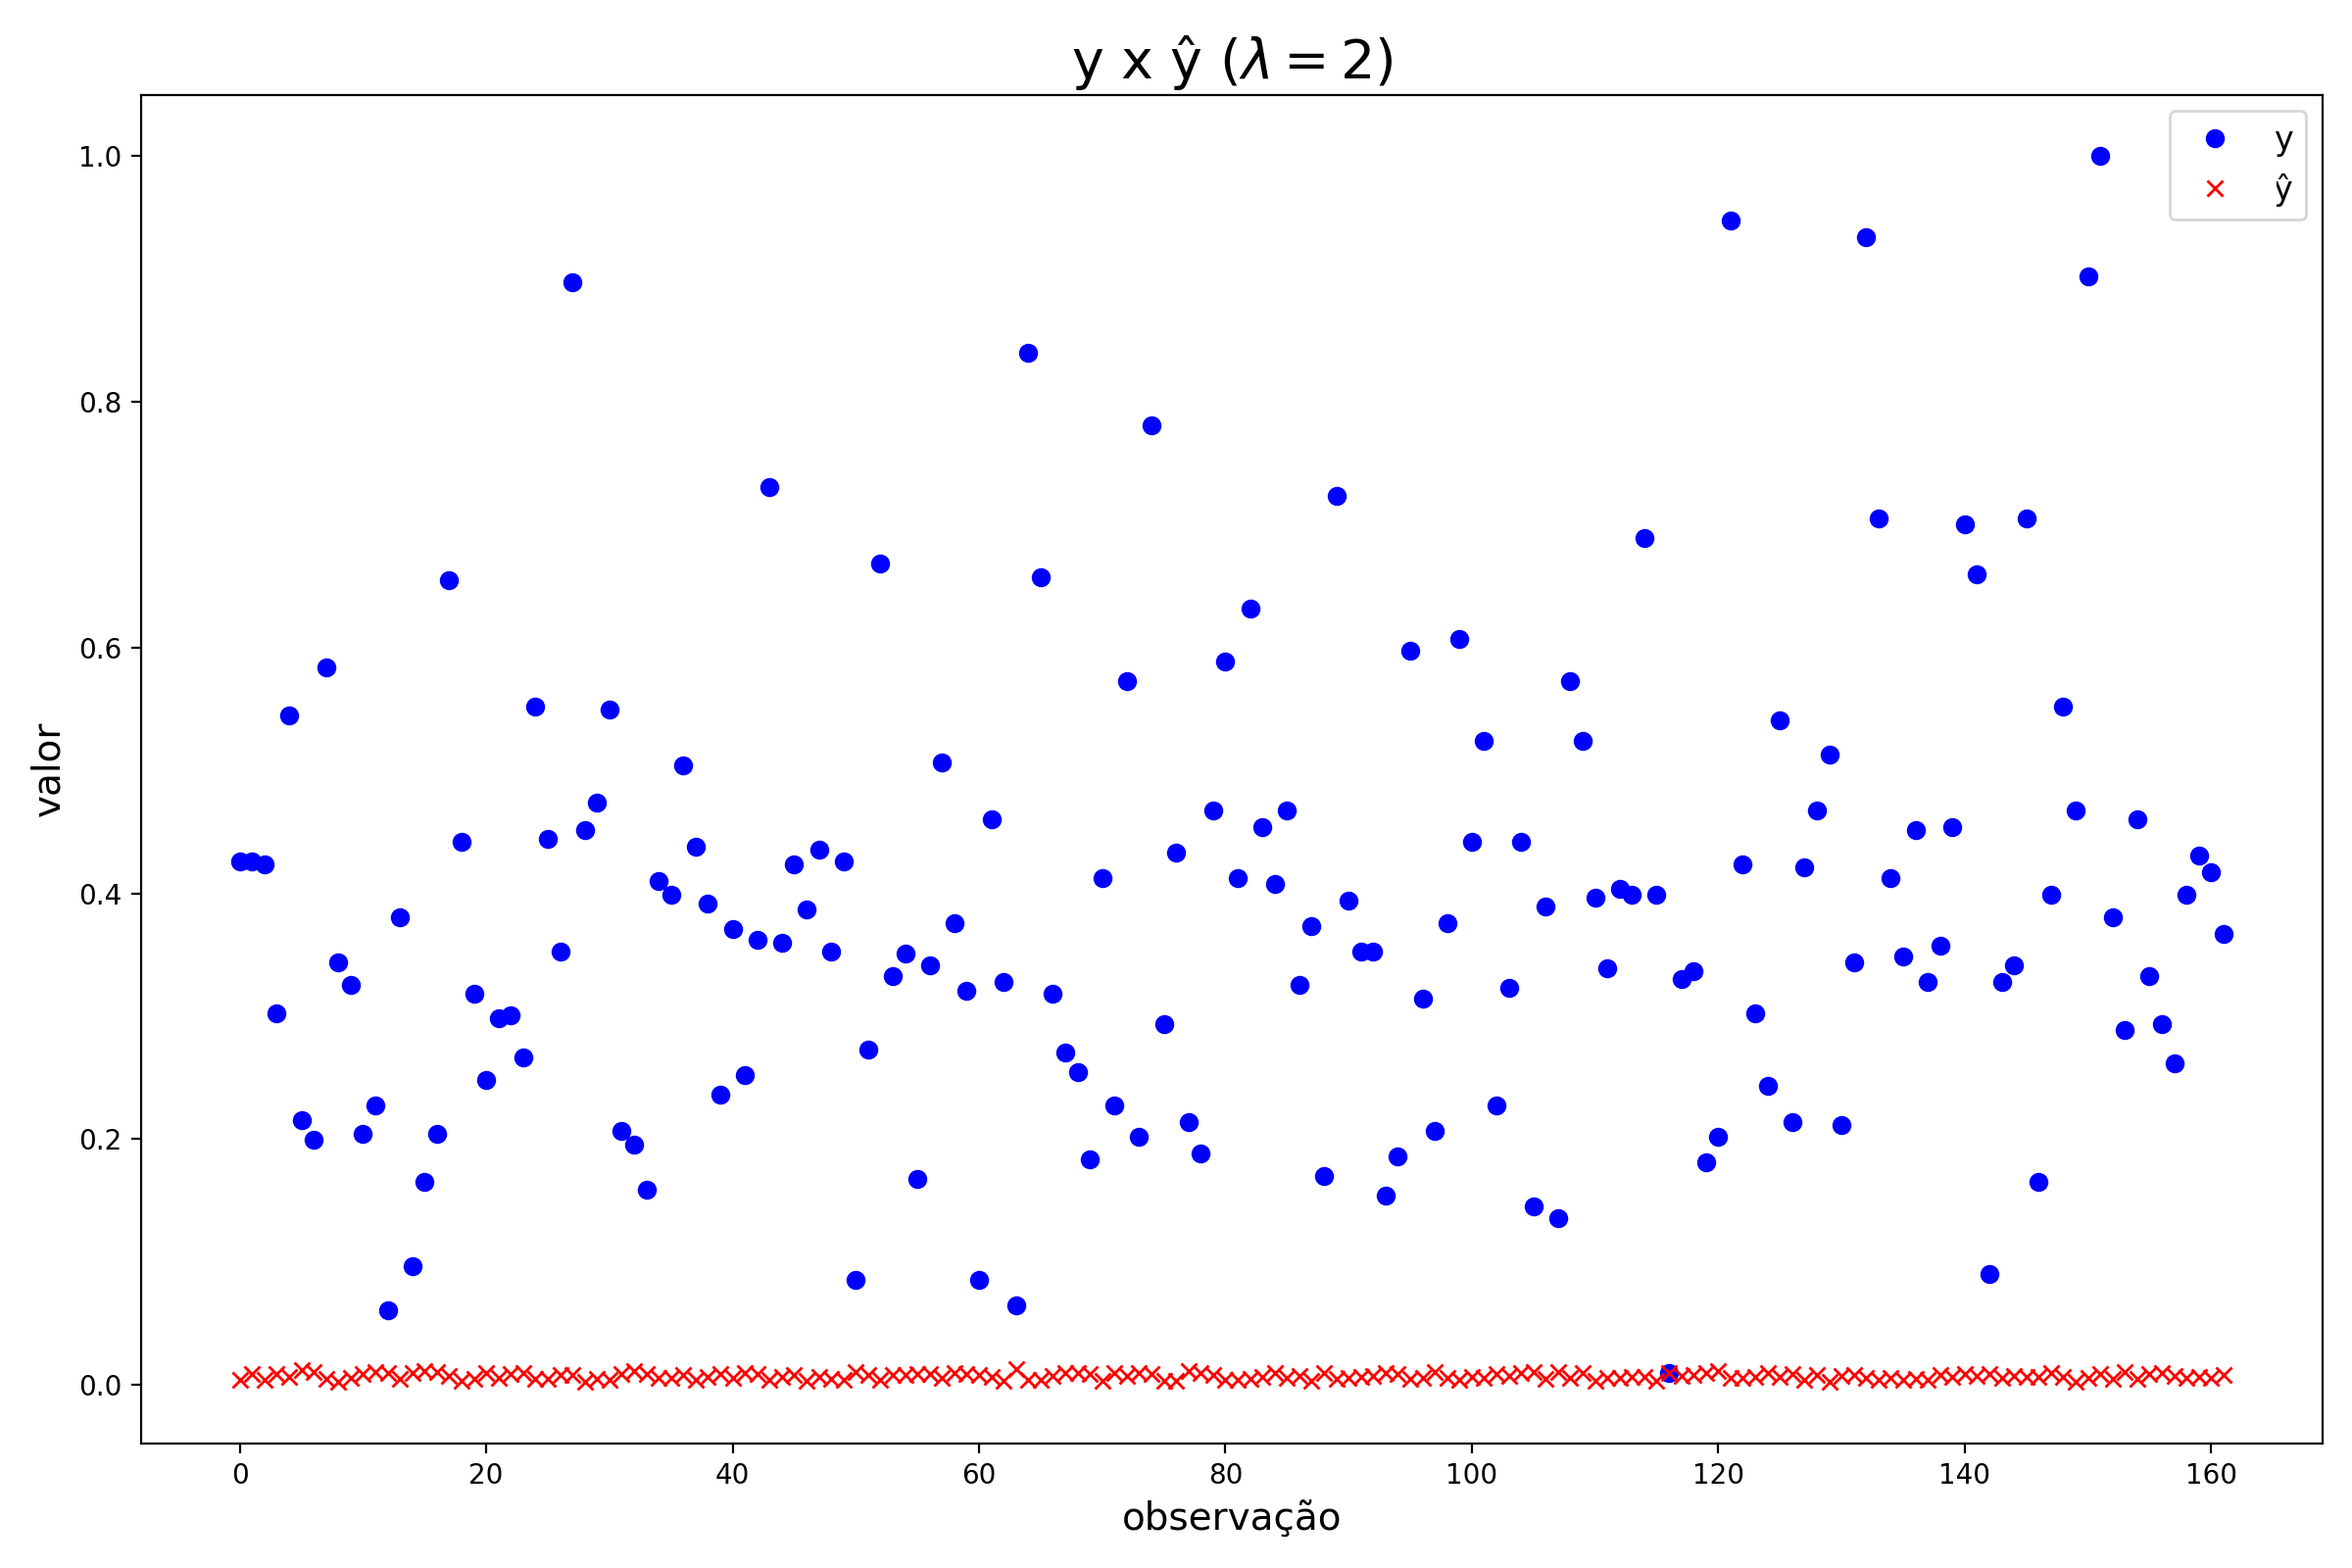
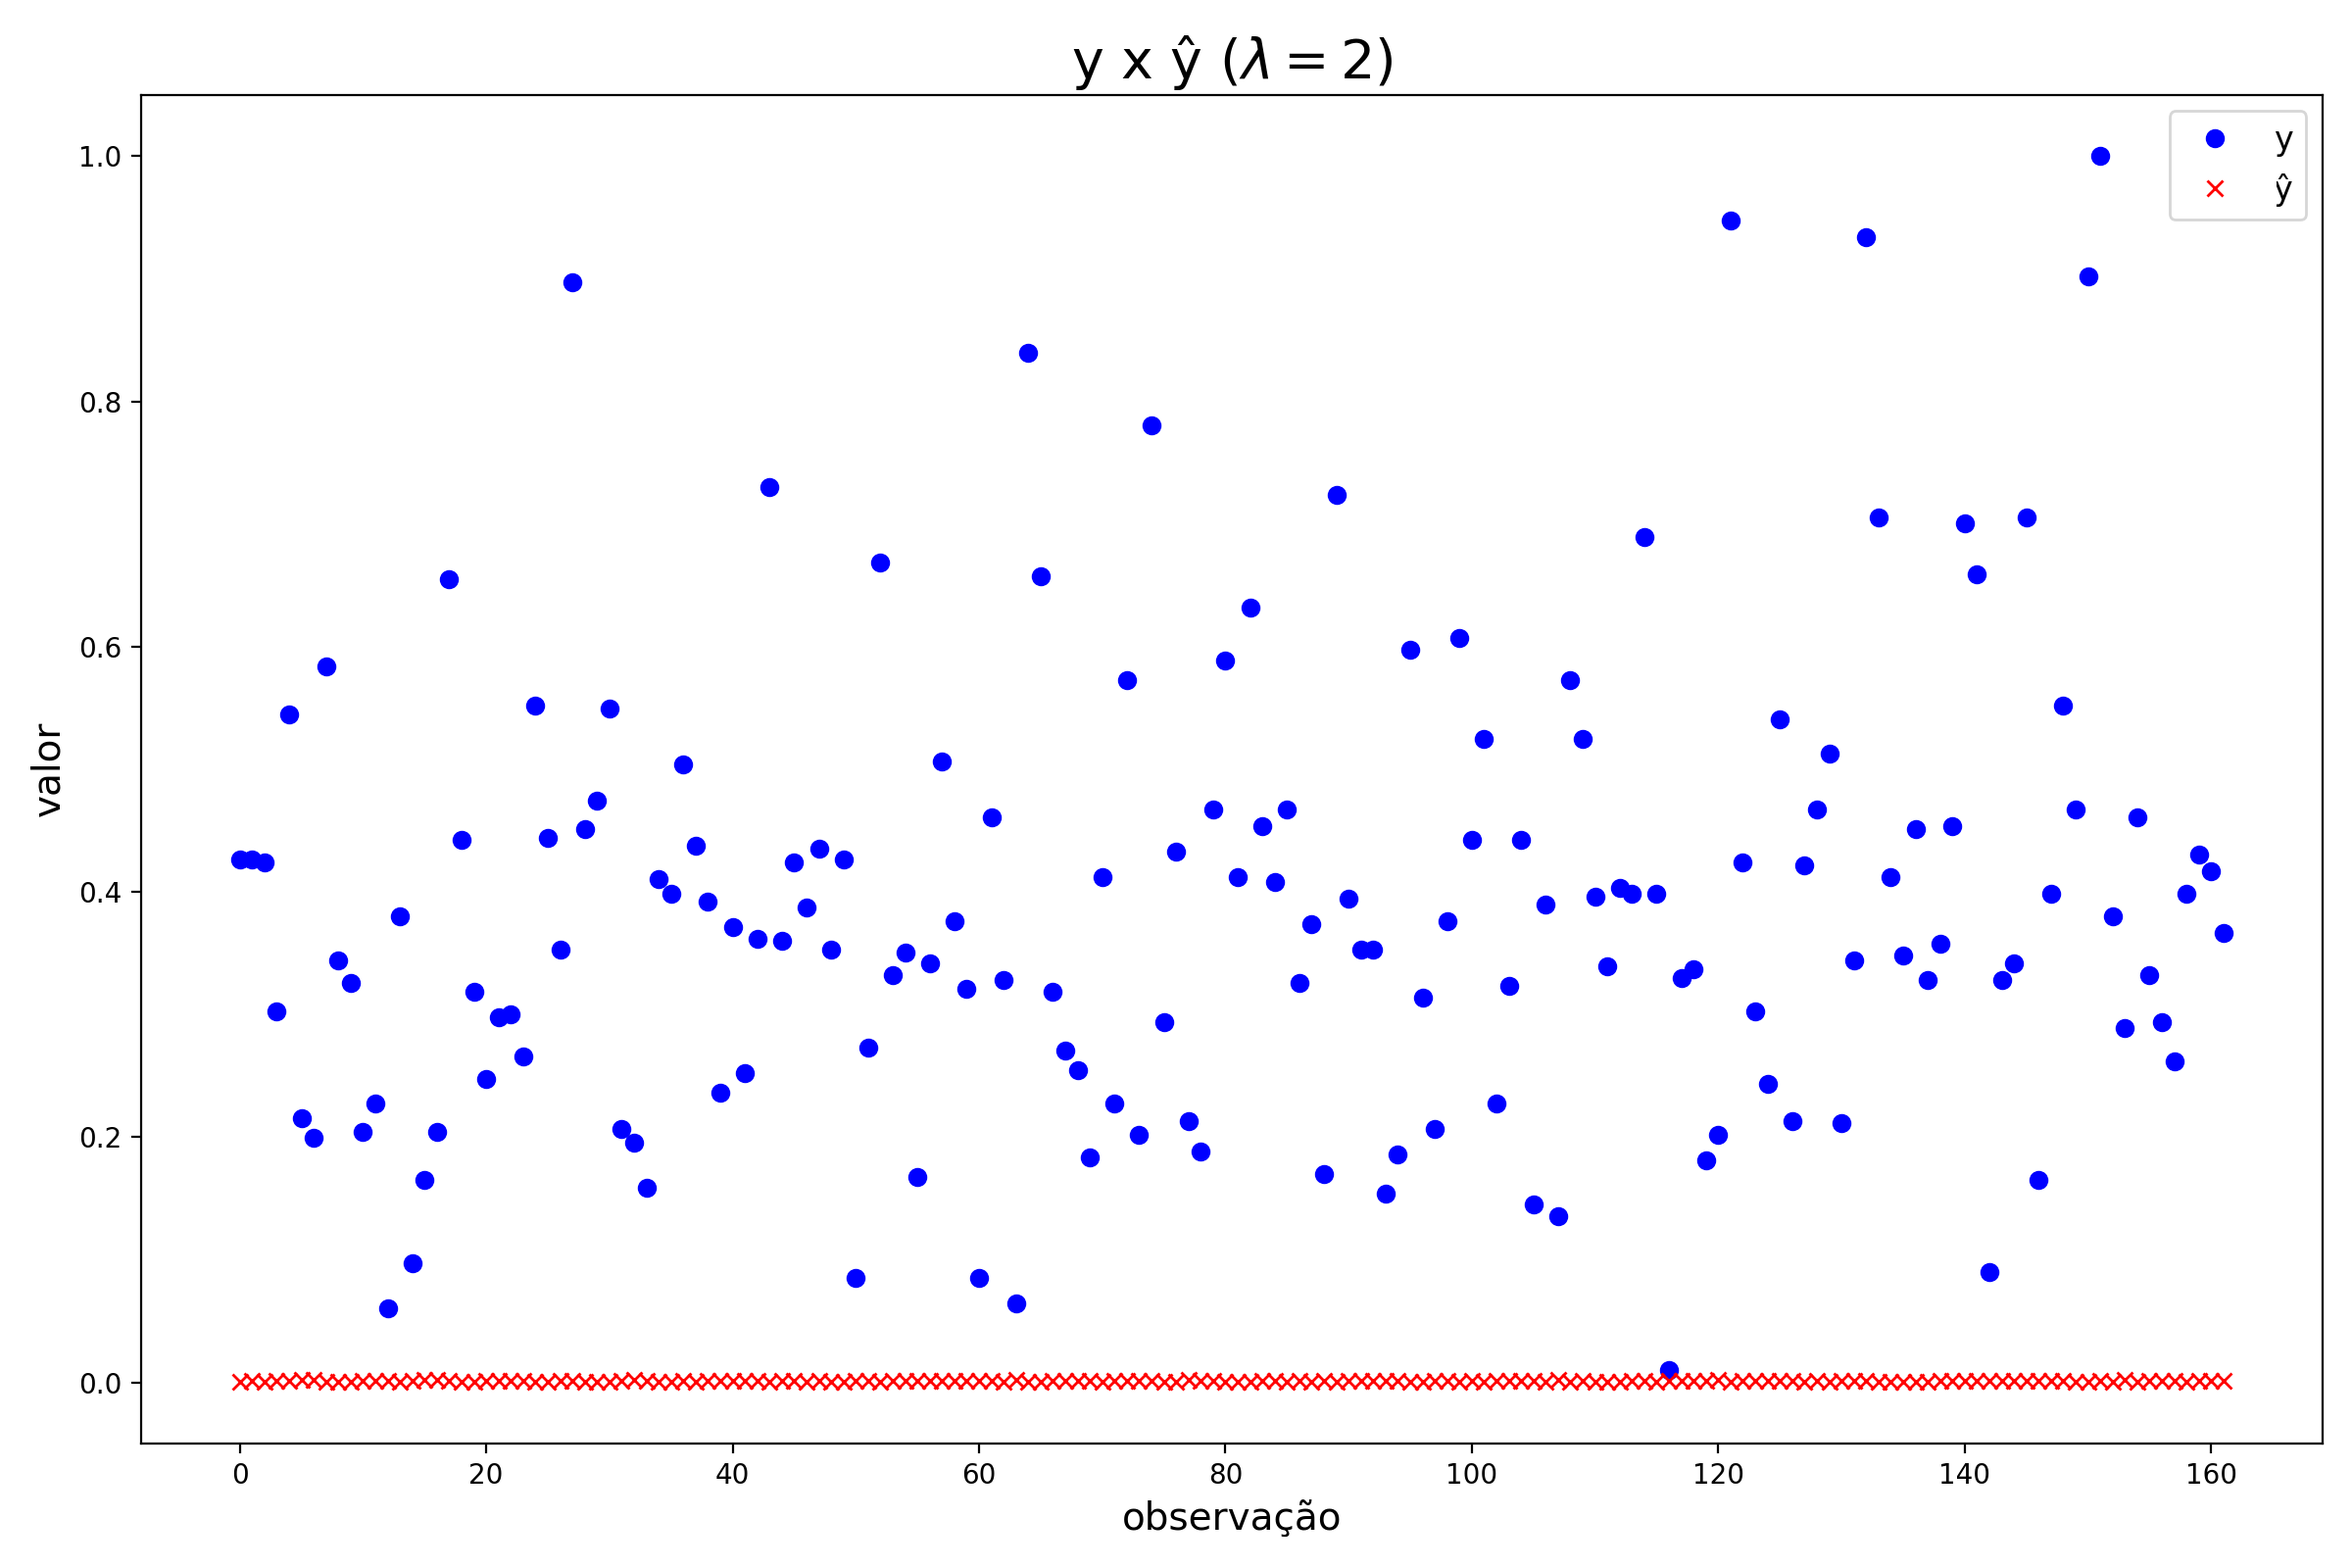
Mudança no LS dual

Changed region(s): [[0.0938, 0.875, 0.9375, 0.9062], [0.0312, 0.875, 0.0625, 0.9062], [0.0312, 0.7188, 0.0625, 0.75]]

diff --git a/Least Square/ls_primal_x_dual.py b/Least Square/ls_primal_x_dual.py
@@ -242,12 +242,15 @@ def ls_dual(X, alpha):
 
 ### LS DUAL COM REGLARIZACAO - valor unico
 
+'''
 # definicoes
-A_ = A[:, :-1] # retira a coluna do bias 
-K = A_ @ A_.T
+#A_ = A[:, :-1] # retira a coluna do bias 
+#K = A_ @ A_.T
+    
+K = A @ A.T
 n = len(K)
 I = np.identity(len(K)) # identidade
-lbd = 2
+lbd = 0
 
 # calculo de alpha = (K + lambda*I) . y
 alpha = np.linalg.inv( K + lbd * I ) @ d 
@@ -262,6 +265,25 @@ if porcentagem == None:
     res_dual = res_dual / y_t
 
 print(mse(res_dual))
+
+'''
+
+K = A @ A.T
+n = len(K)
+I = np.identity(len(K)) # identidade
+lbd = 0
+
+# calculo de alpha = (K + lambda*I) . y
+alpha = np.linalg.inv( K + lbd * I ) @ d 
+
+w_dual = alpha @ A  # deve ser igual ao w do dual
+
+y_pred_dual = X_t @ w_dual[:-1].T + w_dual[-1]
+
+res_dual = (y_t - y_pred_dual)
+
+mse(res_dual)
+
 
 #%%
 
